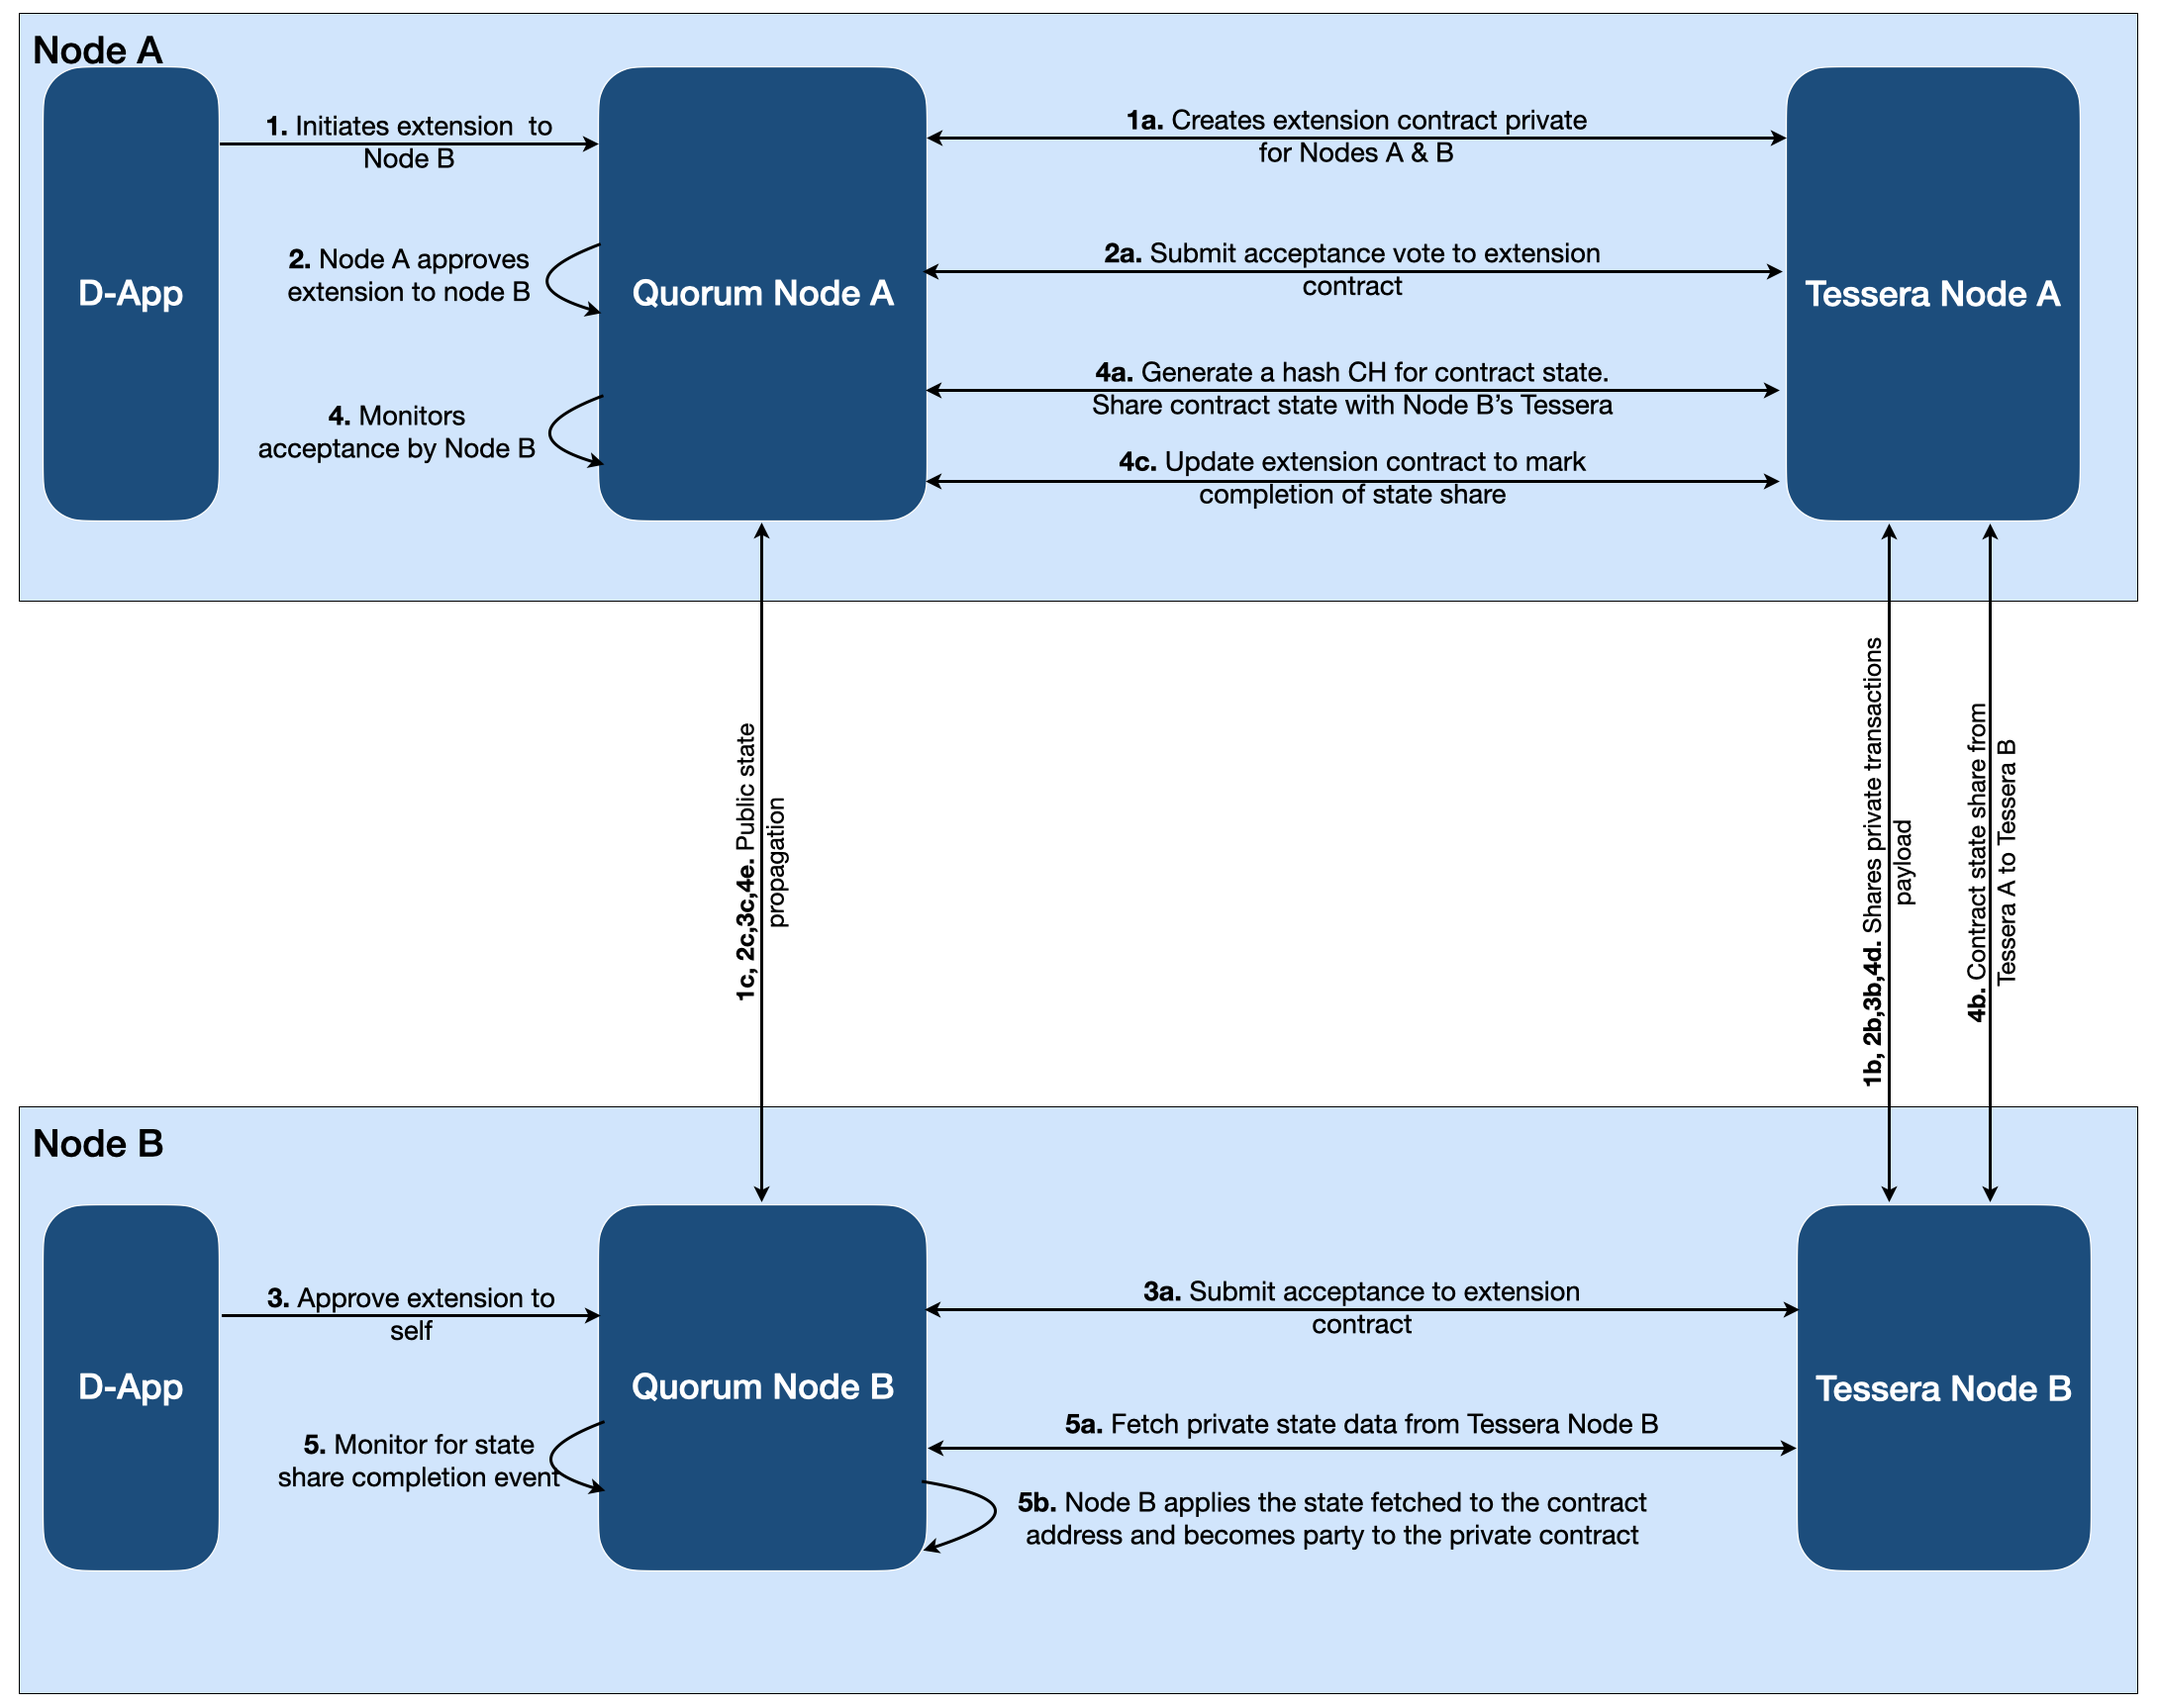
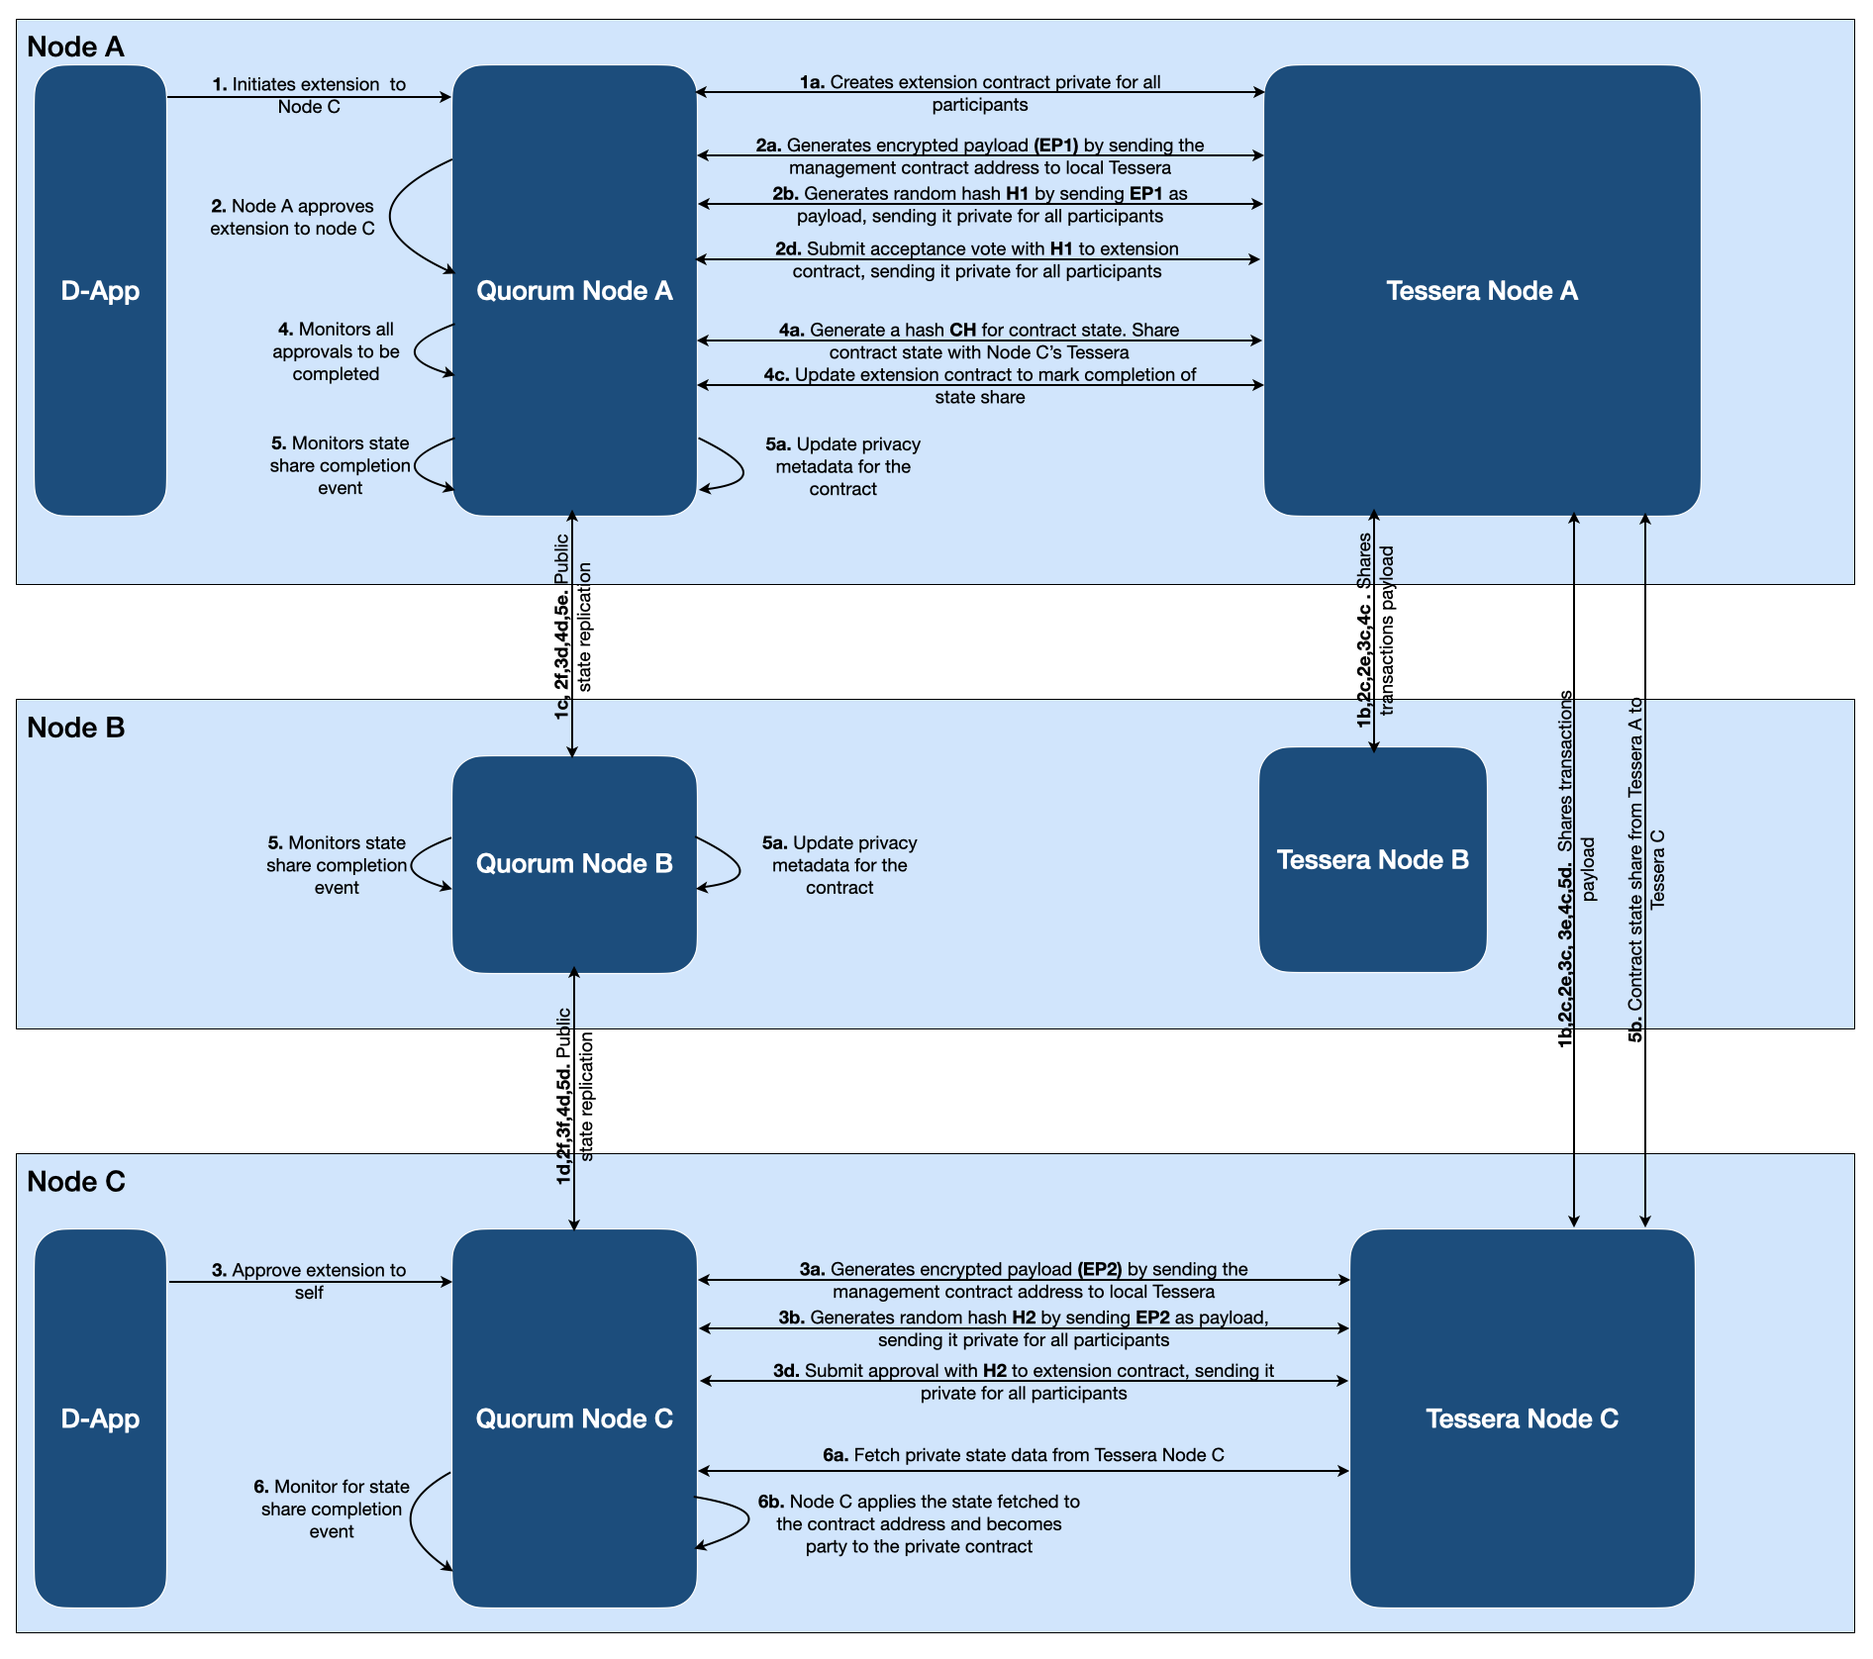
Update to the contract extension flow with PSV and Party protection changes.

diff --git a/docs/Concepts/Privacy/ContractExtension.md b/docs/Concepts/Privacy/ContractExtension.md
@@ -16,30 +16,39 @@ also means that events are not shared either, as the transactions are not shared
 The following diagram describes the flow of contract state extension.
 ![contract state extension diagram](../../images/ContractStateExtension.png)
 
-In this example, private contract is being extended from Nodes A to Node B.
+> **Note** - For the purpose of the flow description, "all participants" in the below description refers to:
+>  - For *"**Standard Private**"* type of contracts, it will be node initiating the extension and the node to which the contract is being extended
+>  - For *"**Party Protection**"* & *"**State Validation**"* type of contracts, it will include all the nodes which are current participant of the contract and the new node to which it is being extended
 
-1. User in node A proposes the extension of the contract, citing B's Private Transaction Manager(PTM)
-    public keys as private participants of this extension, node B's public Ethereum key as a receiving
-    address of this extension, and node B's PTM public key as the target receiver.
-    - **1a** - Node A creates the extension contract with user given inputs and Node B's PTM public key
-    - **1b** - the private transaction payload is shared with Tessera of node B.
-    - **1c** - The public state is propagated across all nodes. Nodes A and B see an emitted log,
-        and start watching the contract address that emitted the event for subsequent events that may happen
+In this example, private contract is deployed between Nodes A and B is being extended from Nodes C.
+
+1. User in node A proposes the extension of the contract, citing C's Private Transaction Manager(PTM)
+    public keys as private participants of this extension, node C's public Ethereum key as a receiving
+    address of this extension, and node C's PTM public key as the target receiver.
+    - **1a** - Node A identifies all participants for the contract being extended and creates the extension contract with user given inputs and PTM public keys of all participants
+    - **1b** - the private transaction payload is shared with Tessera of participants.
+    - **1c** - The public state is propagated across all nodes. All participant nodes see an emitted log,
+        and start watching the contract address that emitted the event for subsequent events that may happen. This contract address is the management contract for the extension process. A new management contract is created with each extension.
 
 1. Node A automatically approves the contract extension by virtue of creating the extension contract.
     In the approval process:
-    - **2a** - Node A submits the approval to extension contract
-    - **2c & 2d** - Private transaction payload is shared with Tessera node B. Public state is propagated across all nodes
+    - **2a** - Node A calls its local Tessera node to encrypt the management contract address
+    - **2b** - Node A sends a private transaction to all participants with the encrypted payload from the previous step to generate a random hash for the approval process.
+    - **2c** - The private transaction is propagated to the Tessera of all participants
+    - **2d** - Node A approves the extension with the hash generated (in step 2b)
+    - **2e & 2f** - Private transaction payload is shared with Tessera of all participants. Public state is propagated across all nodes
 
 1. Since the state sharing does not execute the transactions that generate the state
     (in order to keep history private), there is no proof that can be provided by the proposer
     that the state is correct. In order to remedy this, the receiver must accept the proposal for the
-    contract as the proof. In this step, the user owning the Ethereum public key of node B which was
+    contract as the proof. In this step, the user owning the Ethereum public key of node C which was
     marked as receiving address, approves the contract extension using GoQuorum APIs
-    - **3a** - Node B submits the acceptance vote to extension contract
-    - **3c & 3d** - Private transaction payload is shared with Tessera nodes A. Public state is
-        propagated across all nodes
-
+     - **3a** - Node C calls its local Tessera node to encrypt the management contract address
+     - **3b** - Node C sends a private transaction to all participants with the encrypted payload from the previous step to generate a random hash for the approval process.
+     - **3c** - The private transaction is propagated to the Tessera of all participants
+     - **3d** - Node C approves the extension with the hash generated (in step 3b)
+     - **3e & 3f** - Private transaction payload is shared with Tessera of all participants. Public state is propagated across all nodes
+        
 1. Node A monitors for acceptance of contract extension by Node B. Once accepted
     - **4a & 4b** - Node A fetches the state of the contract and sends it as a "private transaction"
         to Node B. It then submits the PTM hash of that state to the contract, including the recipient's
@@ -49,10 +58,15 @@ In this example, private contract is being extended from Nodes A to Node B.
     - **4d & 4e** - Private transaction payload is shared with Tessera nodes B. Public state is
         propagated across all nodes
 
-1. Node B monitors for state share event
-    - **5a** - Upon noticing the state share event as a part of block processing, node B fetches the
+1. Node A & B monitors for state share event
+    - **5a** - Upon noticing the state share event as a part of block processing, node A & B update the privacy metadata for the contract being extended
+    
+1. Node C monitors for state share event
+    - **6a** - Upon noticing the state share event as a part of block processing, node B fetches the
         contract private state data from Tessera of node B
-    - **5b** - Node B applies the fetched state to the contract address and becomes party of the private contract
+    - **6b** - Node B applies the fetched state to the contract address and becomes party of the private contract
+    
+> Steps (2a, 2b, 2c) and (3a, 3b. 3c) are required to handle data recovery of transaction manager data. In original extension design, the node accepting the extension does so by voting with a hash which is generated by sending a private transaction with management contract address as the payload to self. This hash is further verified at the time of extension to validate the rightful node for extension. In the event if the  node loses its transaction manager and has to recover transactions using resend from other nodes in the network, this self voting transaction is never recoverable. Subsequently if that node ever recovers the chain then it will never be able to process the past contract extension transactions and set state for the private contract.
 
 ## Note
 
